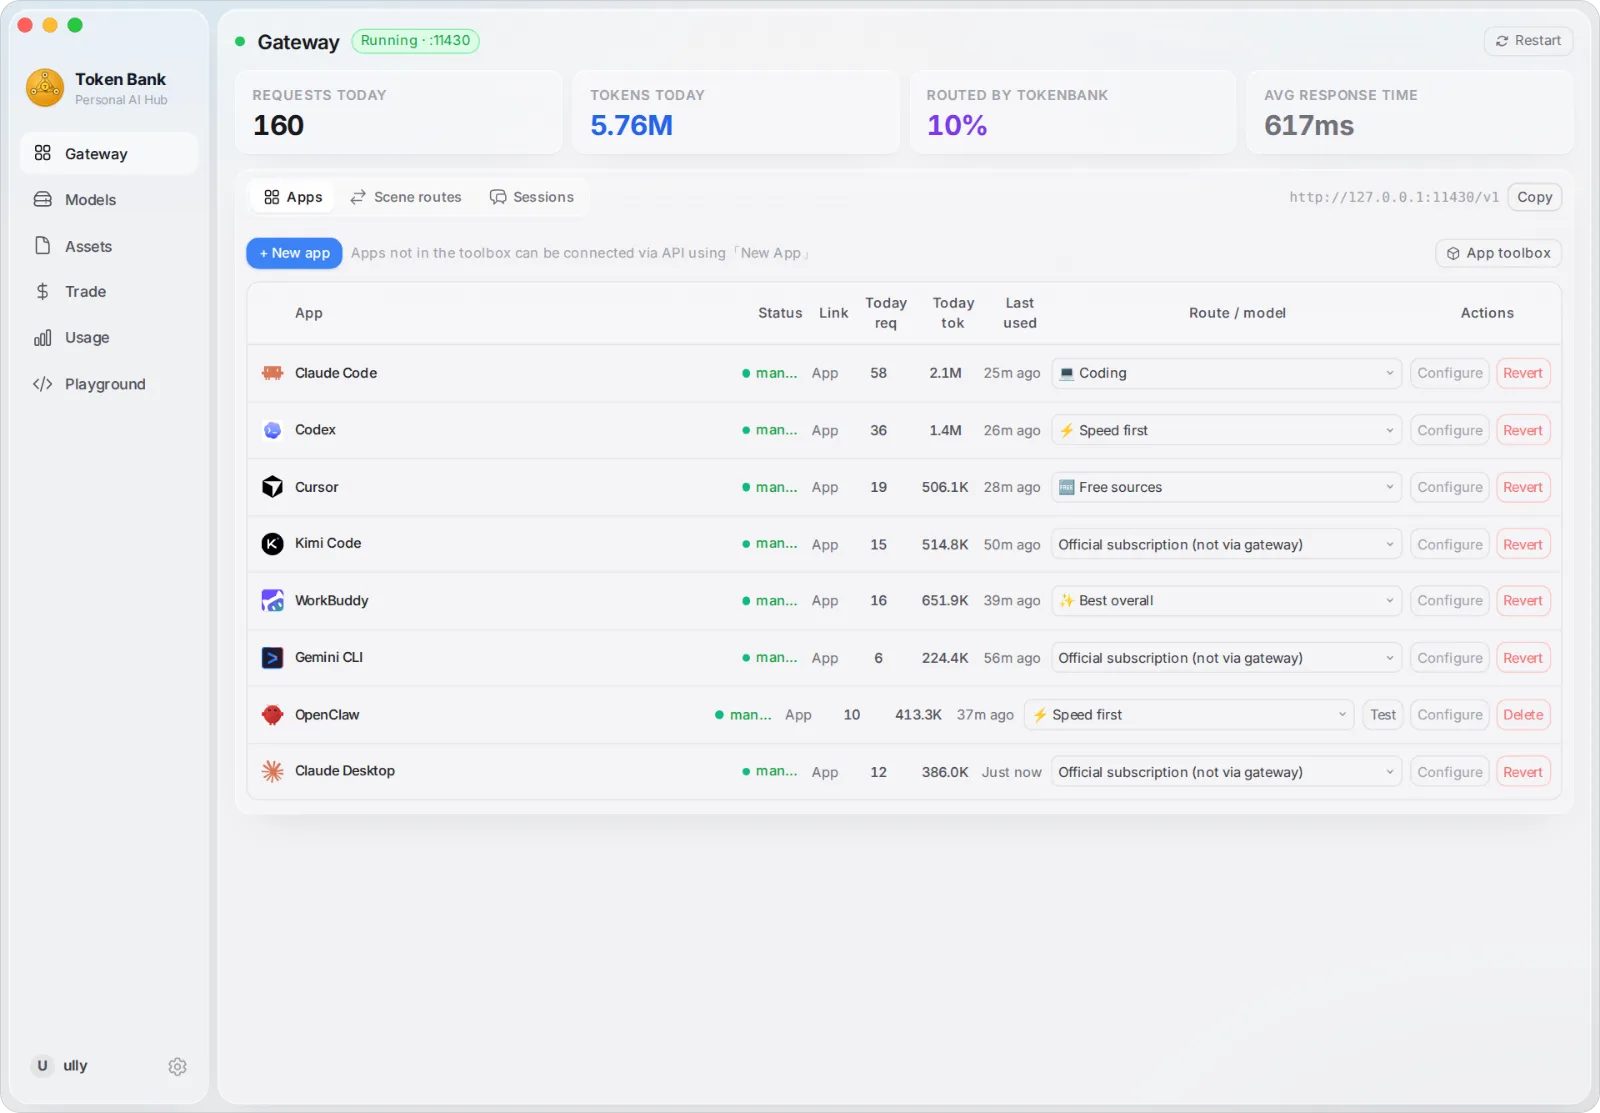
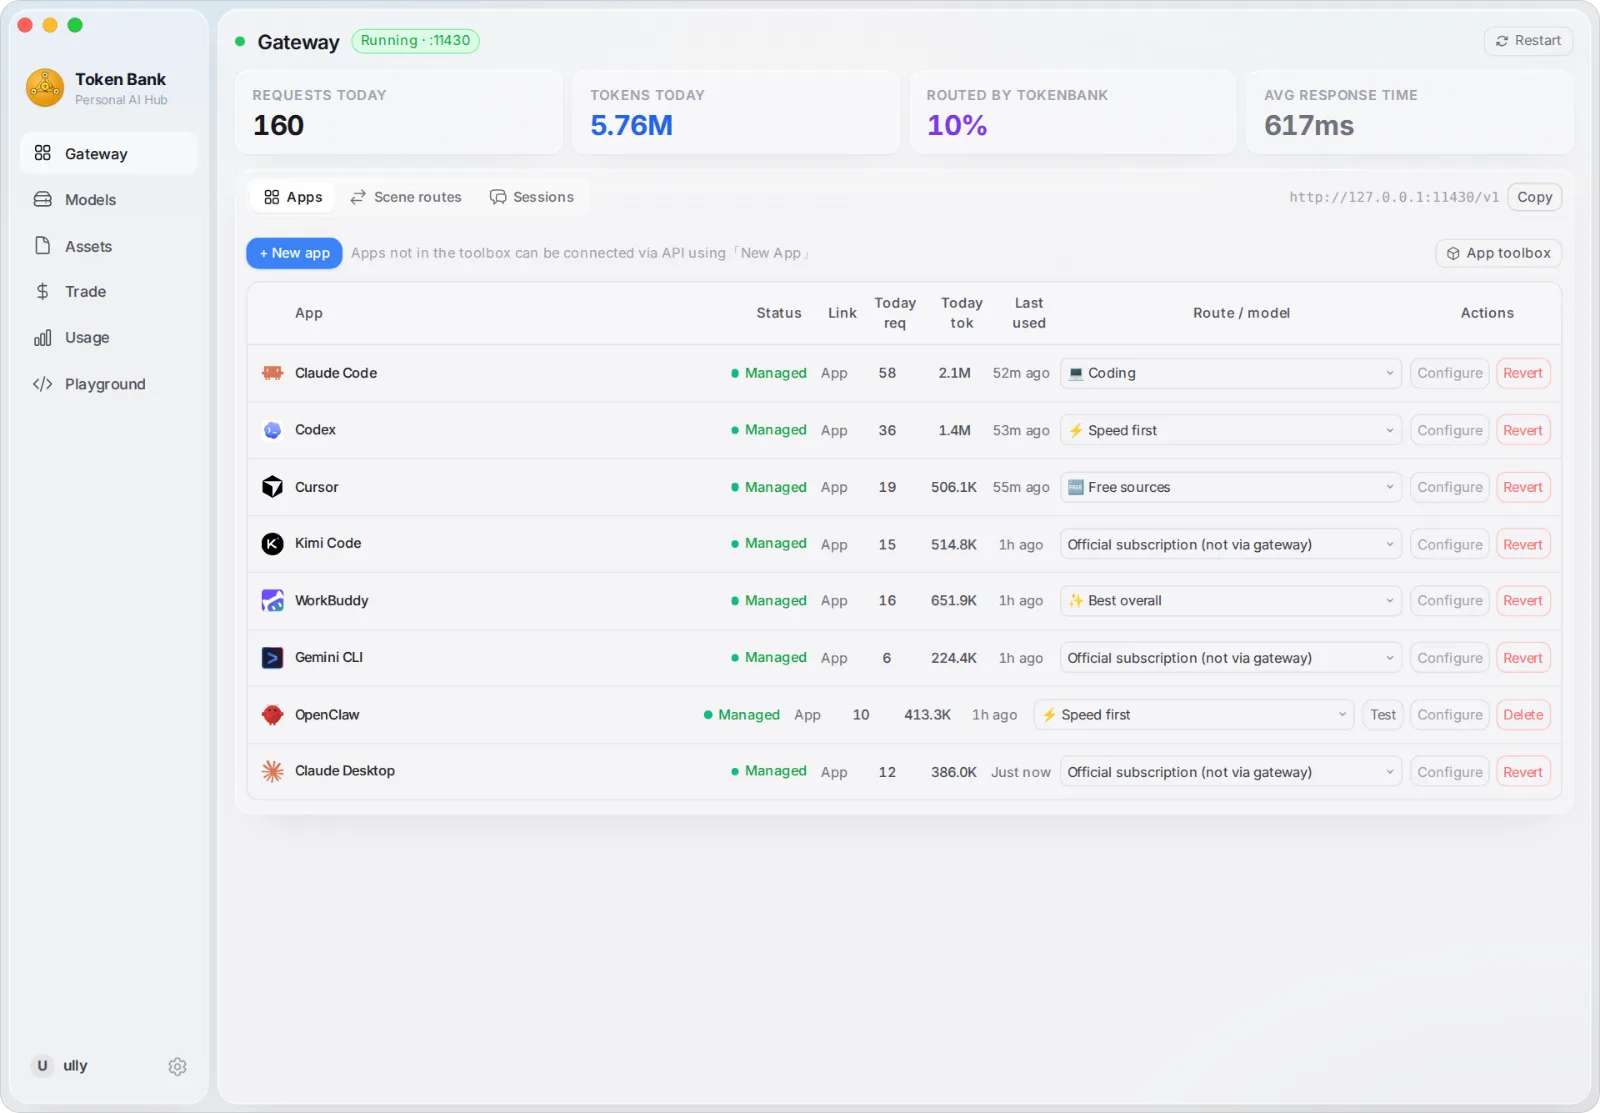
fix(ui): widen gateway status column, fix tray posts spacing
English 'Managed'/'Unmanaged' no longer truncate in the apps table;
tray circle pill reads '3 posts'. Recapture affected screenshots.

Claude-Session: https://claude.ai/code/session_01HoXFJHDGQTyyywoa5r2Vt2

diff --git a/client/src/pages/Gateway.jsx b/client/src/pages/Gateway.jsx
@@ -632,7 +632,7 @@ function tildify(p) {
 // 应用列表统一栅格：固定短列 + minmax(0,fr) 弹性列，避免内容撑开导致各行列宽不一致
 // 应用列保留 modest 最小宽；不设表格 min-width，避免常态出现横向滚动条
 // 应用列加大最小宽；固定短列与路由 min 适当压缩，空间让给应用名
-const APPS_TABLE_GRID = 'grid w-full grid-cols-[1.75rem_minmax(8rem,2fr)_3.75rem_1.75rem_3.75rem_3.5rem_3.75rem_minmax(4.5rem,1.6fr)_minmax(7.75rem,auto)] gap-x-2 items-center px-2.5 [&>*]:min-w-0';
+const APPS_TABLE_GRID = 'grid w-full grid-cols-[1.75rem_minmax(8rem,2fr)_5rem_1.75rem_3.75rem_3.5rem_3.75rem_minmax(4.5rem,1.6fr)_minmax(7.75rem,auto)] gap-x-2 items-center px-2.5 [&>*]:min-w-0';
 
 /** 应用行测试状态：成功/进行中行内短提示；失败用浮层展示完整错误（避免窄列截断） */
 function AppTestResultHint({ ts, t }) {

diff --git a/client/src/locales/pages-en.js b/client/src/locales/pages-en.js
@@ -325,8 +325,8 @@ export default {
   'gateway.app.cliAccountExists': 'This account already has an instance',
   'gateway.apps.colTest': 'Test',
   'gateway.apps.colActions': 'Actions',
-  'gateway.apps.statusOnline': 'managed',
-  'gateway.apps.statusUntracked': 'unmanaged',
+  'gateway.apps.statusOnline': 'Managed',
+  'gateway.apps.statusUntracked': 'Unmanaged',
   'gateway.apps.enableDevMode': 'Enable Dev Mode',
   'gateway.apps.statusApiOnline': 'Online',
   'gateway.apps.statsTitle': 'Click for usage details (incl. session import)',

diff --git a/client/electron/tray-popover.js b/client/electron/tray-popover.js
@@ -100,7 +100,7 @@ function labelsFor(lang) {
     squadToday: 'Used today {n}',
     squadCopy: 'Copy invoke',
     squadCopied: 'Copied',
-    postsUnit: 'posts',
+    postsUnit: ' posts',
     circleLogin: 'Sign in',
     circleEmpty: 'No posts',
     showWindow: 'Main Panel',
